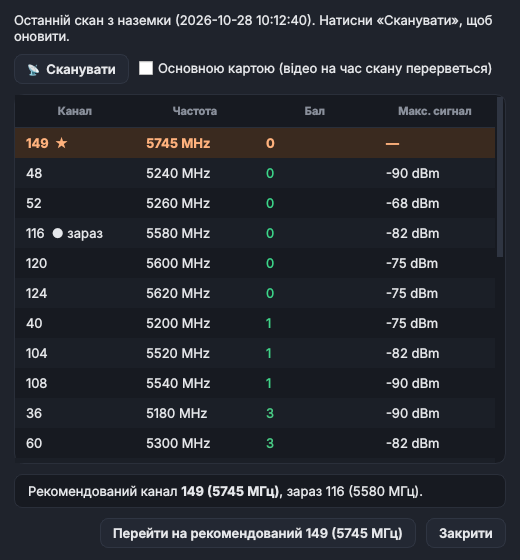
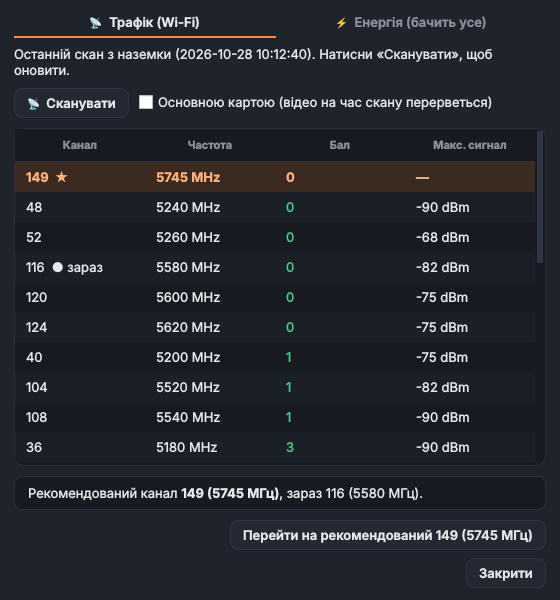
README: енергетичний скан ефіру (1.7.0), нові скріншоти вікна «Ефір»
Claude-Session: https://claude.ai/code/session_01Don98DffMVJhYaKky6CDwg

diff --git a/README.md b/README.md
@@ -5,7 +5,7 @@
 - відео з дрона з OSD і статистикою радіоканалу, запис відео у файл;
 - керування дроном з пульта на ПК (RadioMaster TX16S та інші по USB): канали йдуть на наземку, а з неї в ефір;
 - керування радіомодулем наземки: канал, потужність, BIND відео й пульта;
-- скан радіоефіру і перехід на найчистіший канал;
+- скан радіоефіру двома способами (чужий Wi-Fi-трафік і енергетичний скан, що бачить аналогові передавачі й будь-які завади) і перехід на найчистіший канал;
 - перемикання каналу відео перемикачем на пульті;
 - попередження «UPDATING DRONE», коли наземка оновлює дрон;
 - прошивку пульта EdgeTX і заливку на нього готової моделі;
@@ -128,9 +128,9 @@
 
 ### 📡 Ефір
 
-**Для чого.** Перевірити, які канали зайняті чужим трафіком, і перейти на найчистіший.
+**Для чого.** Перевірити, що відбувається в ефірі (чужий Wi-Fi-трафік, аналогові передавачі, завади), і перейти на найчистіший канал.
 
-**Як працює.** Відкриває вікно [«Моніторинг ефіру»](#вікно-моніторинг-ефіру). Кнопка працює, коли вибрано станцію.
+**Як працює.** Відкриває вікно [«Моніторинг ефіру»](#вікно-моніторинг-ефіру) з двома сканами: «Трафік» і «Енергія». Кнопка працює, коли вибрано станцію.
 
 ### Потужність
 
@@ -198,13 +198,27 @@
 
 ## Вікно «Моніторинг ефіру»
 
-![Моніторинг ефіру](docs/airscan.png)
+**Для чого.** Перед вильотом побачити, що відбувається в ефірі 5 ГГц, і перейти на найчистіший канал.
 
-**Для чого.** Перед вильотом побачити, які канали 5 ГГц зайняті чужим трафіком (інші дрони, Wi-Fi, РЕБ), і перейти на найчистіший.
+Вікно відкривається кнопкою **📡 Ефір** на вкладці «Політ» і має дві вкладки з різними сканами. Обидва скани робить сама наземка, а програма запускає скан, показує результат і перемикає канал.
 
-**Як працює.** Скан робить сама наземка: її радіоадаптер по черзі слухає кожен канал і рахує чужі пакети. Програма лише запускає скан, показує результат і перемикає канал.
+| | 📡 Трафік (Wi-Fi) | ⚡ Енергія (бачить усе) |
+|---|---|---|
+| Що міряє | кількість чужих Wi-Fi-кадрів на каналі | потужність будь-якого радіосигналу на частоті |
+| Бачить аналогові відеопередавачі, радари, не-Wi-Fi завади | ні | **так** |
+| Частоти | 25 каналів нашого лінку | 5080–6000 МГц кроком 20 МГц (52 точки), серед них усі наші канали |
+| Тривалість | ~25 с | ~30–35 с |
+| Відео й лінк під час скану | зазвичай не перериваються (вільний адаптер) | **перериваються на ~30 с** (основна карта) |
 
-1. Відкрий вікно кнопкою **📡 Ефір** на вкладці «Політ». Якщо наземка вже робила скан, одразу видно його результат і час.
+Скани доповнюють один одного: «Трафік» показує чужі цифрові лінки й Wi-Fi, а «Енергія» — усе інше, особливо аналогові FPV-передавачі.
+
+### Вкладка «📡 Трафік (Wi-Fi)»
+
+![Скан трафіку](docs/airscan.png)
+
+**Як працює.** Радіоадаптер наземки по черзі слухає кожен канал нашого лінку і рахує чужі Wi-Fi-пакети.
+
+1. Відкрий вікно. Якщо наземка вже робила скан, одразу видно його результат і час.
 2. Натисни **📡 Сканувати**. Скан триває близько 25 секунд.
    - Зазвичай наземка сканує вільним (запасним) адаптером, і відео не переривається.
    - Якщо вільного адаптера немає, програма про це скаже. Тоді можна поставити галочку **«Основною картою»**: скан зробить основний адаптер, але на час скану відео й лінк переривається.
@@ -220,6 +234,40 @@
 4. Під таблицею написано рекомендований канал і поточний. Натисни **Перейти на рекомендований** або вибери інший рядок і натисни «Перейти на канал …». Канал перемикається як звичайно: синхронно на наземці й дроні, без зупинки відео.
 
 Якщо внизу написано «ти вже на ньому», поточний канал і так найкращий — можна летіти.
+
+### Вкладка «⚡ Енергія (бачить усе)»
+
+![Енергетичний скан](docs/energy.png)
+
+**Як працює.** Карта Realtek 8812eu наземки має вбудований вимірювач потужності. Наземка перебирає частоти від 5080 до 6000 МГц і на кожній міряє, яку частку часу в ефірі є сигнал і наскільки він сильний. Так видно все, що випромінює: аналогові FPV-передавачі, чужі цифрові лінки, роутери, радари. На частоти поза нашими каналами карта стає лише для виміру, лінк туди ніколи не переходить. На поточному каналі наш власний борт не рахується, але чужий аналоговий передавач на ньому буде видно.
+
+1. Відкрий вкладку. Якщо наземка вже робила енергетичний скан, одразу видно його результат і час.
+2. Галочка **«Основною картою»** стоїть сама: на наземці зазвичай одна карта 8812eu, і це основна. Натисни **⚡ Сканувати** і підтверди. **Лінк з дроном і відео перерветься приблизно на 30 секунд**, потім наземка сама поверне канал і потужність. Тому скануй на землі, перед вильотом.
+3. **Графік** показує ефір по частоті:
+   - стовпець — скільки відсотків часу сигнал на цій частоті сильніший за −80 dBm; темна нижня частина — сильніший за −65 dBm;
+   - колір стовпця — від зеленого (тихо) до червоного (шумно);
+   - світлі смуги на фоні — канали нашого лінку; бліді стовпці поза ними — частоти, на які лінк не стає (лише огляд);
+   - **★** над стовпцем — рекомендований канал, **●** — поточний;
+   - наведи курсор на стовпець, щоб побачити всі цифри; клік по стовпцю вибирає цю точку в таблиці.
+
+   Аналоговий відеопередавач видно як групу високих червоних стовпців навколо його частоти.
+4. **Таблиця** йде за частотою. Сірі рядки з підписом «— огляд» — частоти поза нашим лінком. Галочка **«Лише канали нашого лінку»** ховає їх.
+
+   | Стовпець | Що означає |
+   |---|---|
+   | **Частота** | частота точки, МГц |
+   | **Канал** | канал нашого лінку (★ — рекомендований, ● зараз — поточний) або «— огляд» |
+   | **Зайнято** | % часу, коли сигнал сильніший за −80 dBm |
+   | **Сильне** | % часу, коли сигнал сильніший за −65 dBm |
+   | **CLM** | % часу, коли приймач бачив канал зайнятим |
+   | **Пік** | найсильніший рівень, що тримався хоча б 1 % часу, dBm; «тиша» — нижче −92 dBm |
+   | **Бал** | 0…300, зайнято + 2 × сильне. **Менший бал — тихіше.** «помилка» — вимір на цій точці не вдався |
+
+5. Натисни **Перейти на рекомендований** (або вибери інший канал нашого лінку). Для рядків «огляд» кнопка неактивна: лінк туди не стає.
+
+Якщо закрити вікно під час скану, програма дочекається результату у фоні й покаже його, коли відкриєш вікно знову.
+
+> Енергетичний скан потребує наземки з командою `AIRSCAN ENERGY` і карти 8812eu. Якщо наземка старіша, вкладка називається «Енергія (потрібне оновлення наземки)», а скан трафіку працює як раніше.
 
 ---
 
@@ -523,6 +571,8 @@ Windows сама не дає програмам доступу до пульта
 | Блок «Канал відео з пульта» пише, що наземку треба оновити | на наземці ще немає цієї функції — онови наземку |
 | «Налаштування борта: передаються на борт…» довго не змінюється | борт не чує наземку; він працюватиме з останньою копією налаштувань, а нові отримає при BIND |
 | «Скачати ключ» / «Завантажити ключ» пише `UNKNOWN` | наземка ще не підтримує GETKEY / SETKEY — потрібне оновлення наземки |
+| Вкладка «Енергія» пише «потрібне оновлення наземки» | наземка ще не вміє енергетичний скан — онови наземку |
+| «Енергія»: немає карти 8812eu з вимірювачем | енергетичний скан працює лише з картою 8812eu; без галочки «Основною картою» потрібна вільна така карта |
 | Таблиця в «Ефірі» порожня | натисни «Сканувати»; якщо наземка пише, що немає вільного адаптера, — постав галочку «Основною картою» |
 | Пульт не видно / чіп ПУЛЬТ червоний | кабель, режим USB Joystick у пульті, «Джерело пульта» в налаштуваннях |
 | Працюють лише 8 каналів | у налаштуваннях вибрано pygame — переключи на «Авто» або «Тільки HID», у пульті вибери Mode: Advanced |
